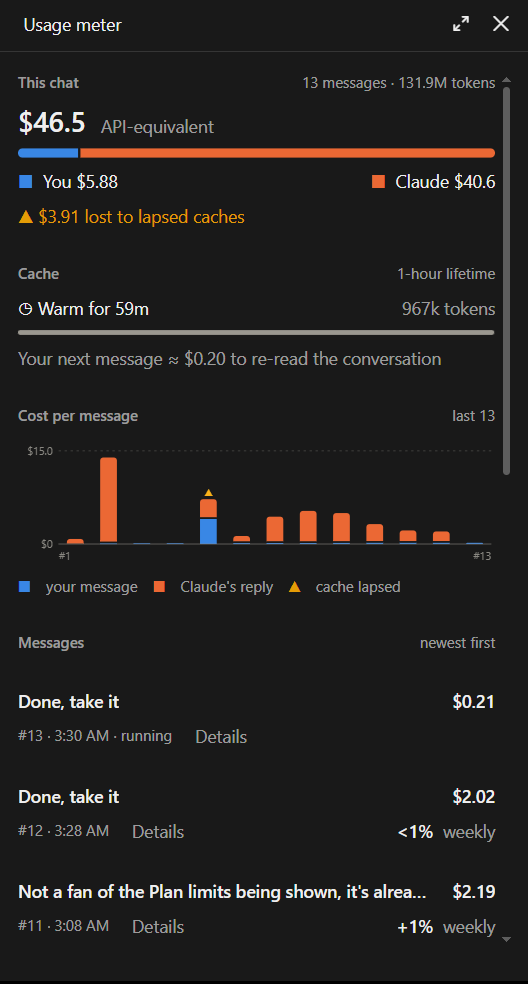
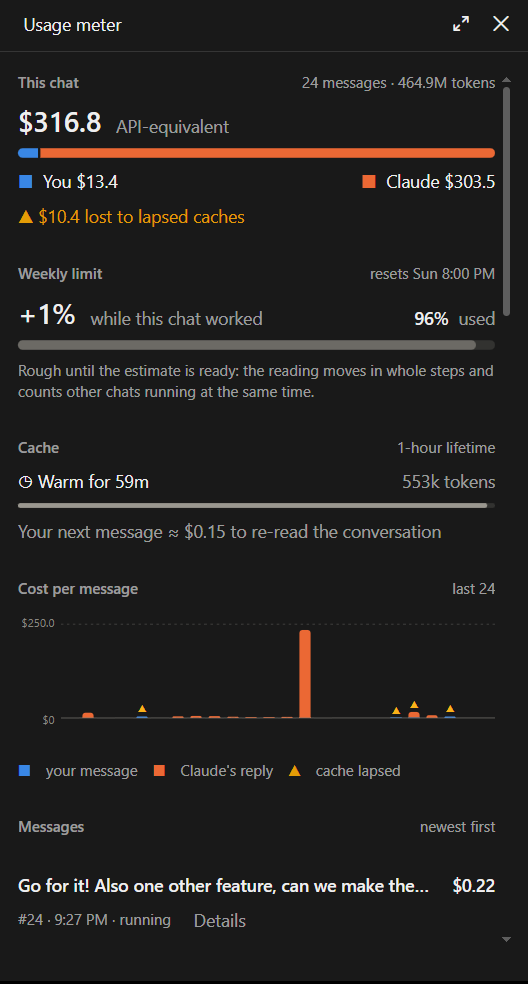
Retake the pane screenshot with the weekly limit section

diff --git a/README.md b/README.md
@@ -9,7 +9,7 @@ Two pieces:
 - **A mod for Claude Code** (desktop app and terminal): a pane beside the chat with one row per message, a one-line band above the prompt, a usage line under each reply, and a `/usage-meter` command.
 - **A command-line report** over the conversations already on your computer, as a terminal table or an HTML page.
 
-<p align="center"><img src="docs/images/usage-pane.png" width="400" alt="The usage meter's pane in the Claude desktop app: this chat's total split into your messages and Claude's replies, what lapsed caches cost, the cache countdown, a chart of each message's cost, and the newest messages with what each cost and how far it moved the weekly limit"></p>
+<p align="center"><img src="docs/images/usage-pane.png" width="400" alt="The usage meter's pane in the Claude desktop app: this chat's total split into your messages and Claude's replies, what lapsed caches cost, this chat's share of the weekly limit beside the account's use, the cache countdown, a chart of each message's cost, and the newest message with what it cost"></p>
 
 ## Install
 
